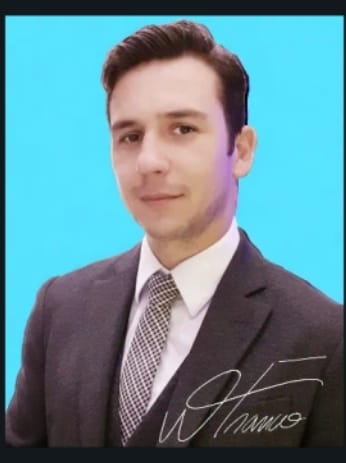
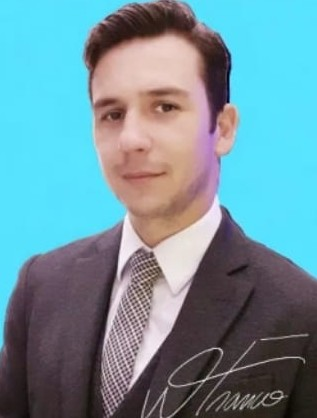
conserto de alguns bugs - principalmente o carregamento da página

diff --git a/index.html b/index.html
@@ -112,7 +112,7 @@
                 <div class="mvv-card fade-in">
                     <h3><i class="fas fa-heart"></i> Valores</h3>
                     <ul>
-                        <li><i class="fas fa-check"></i> <strong>Compromisso Social:</strong> Atuar c om responsabilidade e sensibilidade humana</li>
+                        <li><i class="fas fa-check"></i> <strong>Compromisso Social:</strong> Atuar com responsabilidade e sensibilidade humana</li>
                         <li><i class="fas fa-check"></i> <strong>Ética e Transparência:</strong> Garantir parcerias com integridade, seriedade e clareza</li>
                         <li><i class="fas fa-check"></i> <strong>Cooperação Internacional:</strong> Fomentar conexões sólidas entre instituições, empresas, empresários e governos</li>
                         <li><i class="fas fa-check"></i> <strong>Desenvolvimento Sustentável:</strong> Apoiar investimentos que promovam crescimento econômico</li>
@@ -193,9 +193,6 @@
                 </div>
                 <div class="gallery-item" data-image="20">
                     <img src="assets/img/galeria de fotos/20.jpeg" alt="Galeria de Fotos">
-                </div>
-                <div class="gallery-item" data-image="21">
-                    <img src="assets/img/galeria de fotos/21.jpeg" alt="Galeria de Fotos">
                 </div>
             </div>
         </div>
@@ -323,7 +320,7 @@
                 </div>
                 <div class="director-card fade-in">
                     <div class="director-photo">
-                        <img src="assets/diretores/Dr. Wesley Henrique Franco - Diretor de Tratativas de Negócios.jpeg" alt="Dr. Wesley Henrique Franco - Diretor de Tratativas de Negócios">
+                        <img src="assets/diretores/Dr. Wesley Henrique Franco2 - Diretor de Tratativas de Negócios.jpeg" alt="Dr. Wesley Henrique Franco - Diretor de Tratativas de Negócios">
                     </div>
                     <div class="director-info">
                         <h3>Dr. Wesley Henrique Franco</h3>

diff --git a/script.js b/script.js
@@ -72,18 +72,19 @@ window.addEventListener('scroll', setActiveNavLink);
 
 
 // ===== INTERSECTION OBSERVER PARA ANIMAÇÕES =====
+// Configuração para detectar elementos mais cedo (quando estão chegando, não quando já estão no topo)
 const observerOptions = {
-    threshold: 0.1,
-    rootMargin: '0px 0px -50px 0px'
+    threshold: 0.01, // Detecta assim que qualquer parte do elemento aparecer
+    rootMargin: '0px 0px 100px 0px' // Expande a área de detecção para baixo em 200px (detecta antes de chegar)
 };
 
 const observer = new IntersectionObserver((entries) => {
     entries.forEach((entry, index) => {
         if (entry.isIntersecting) {
-            // Delay escalonado para elementos múltiplos
+            // Delay escalonado reduzido para elementos múltiplos
             setTimeout(() => {
                 entry.target.classList.add('visible');
-            }, index * 100);
+            }, index * 50);
             observer.unobserve(entry.target);
         }
     });
